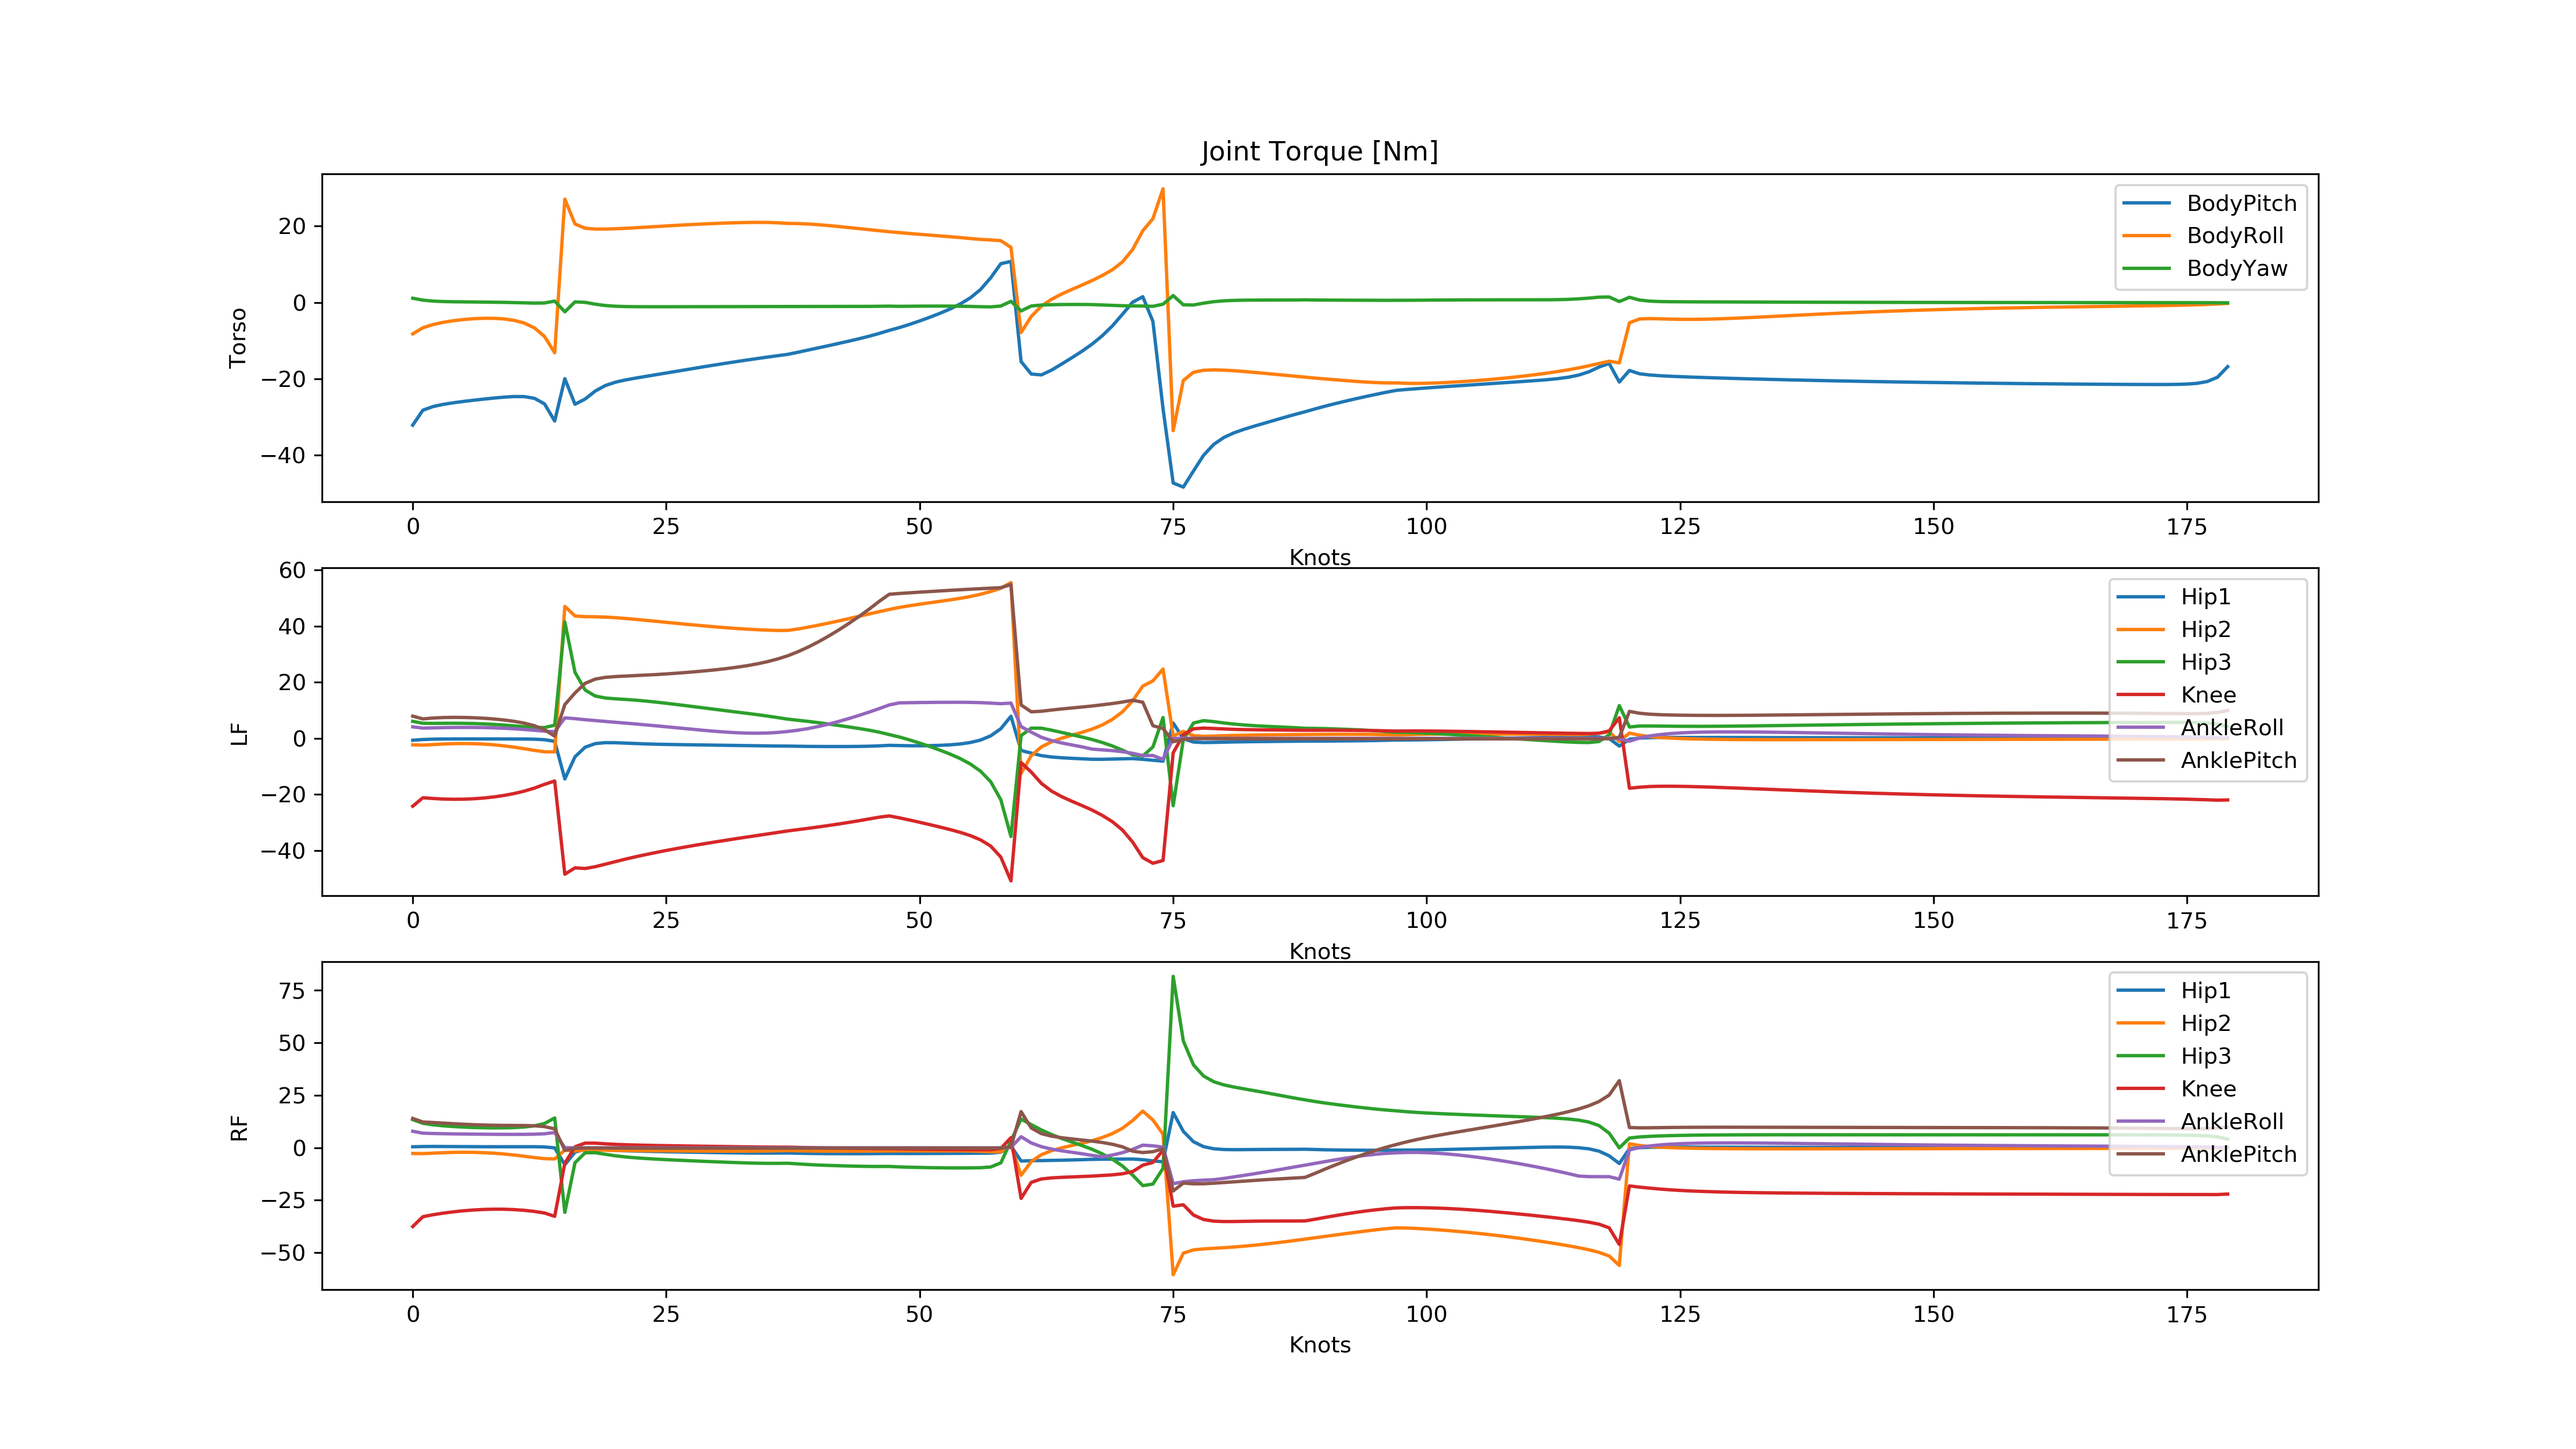
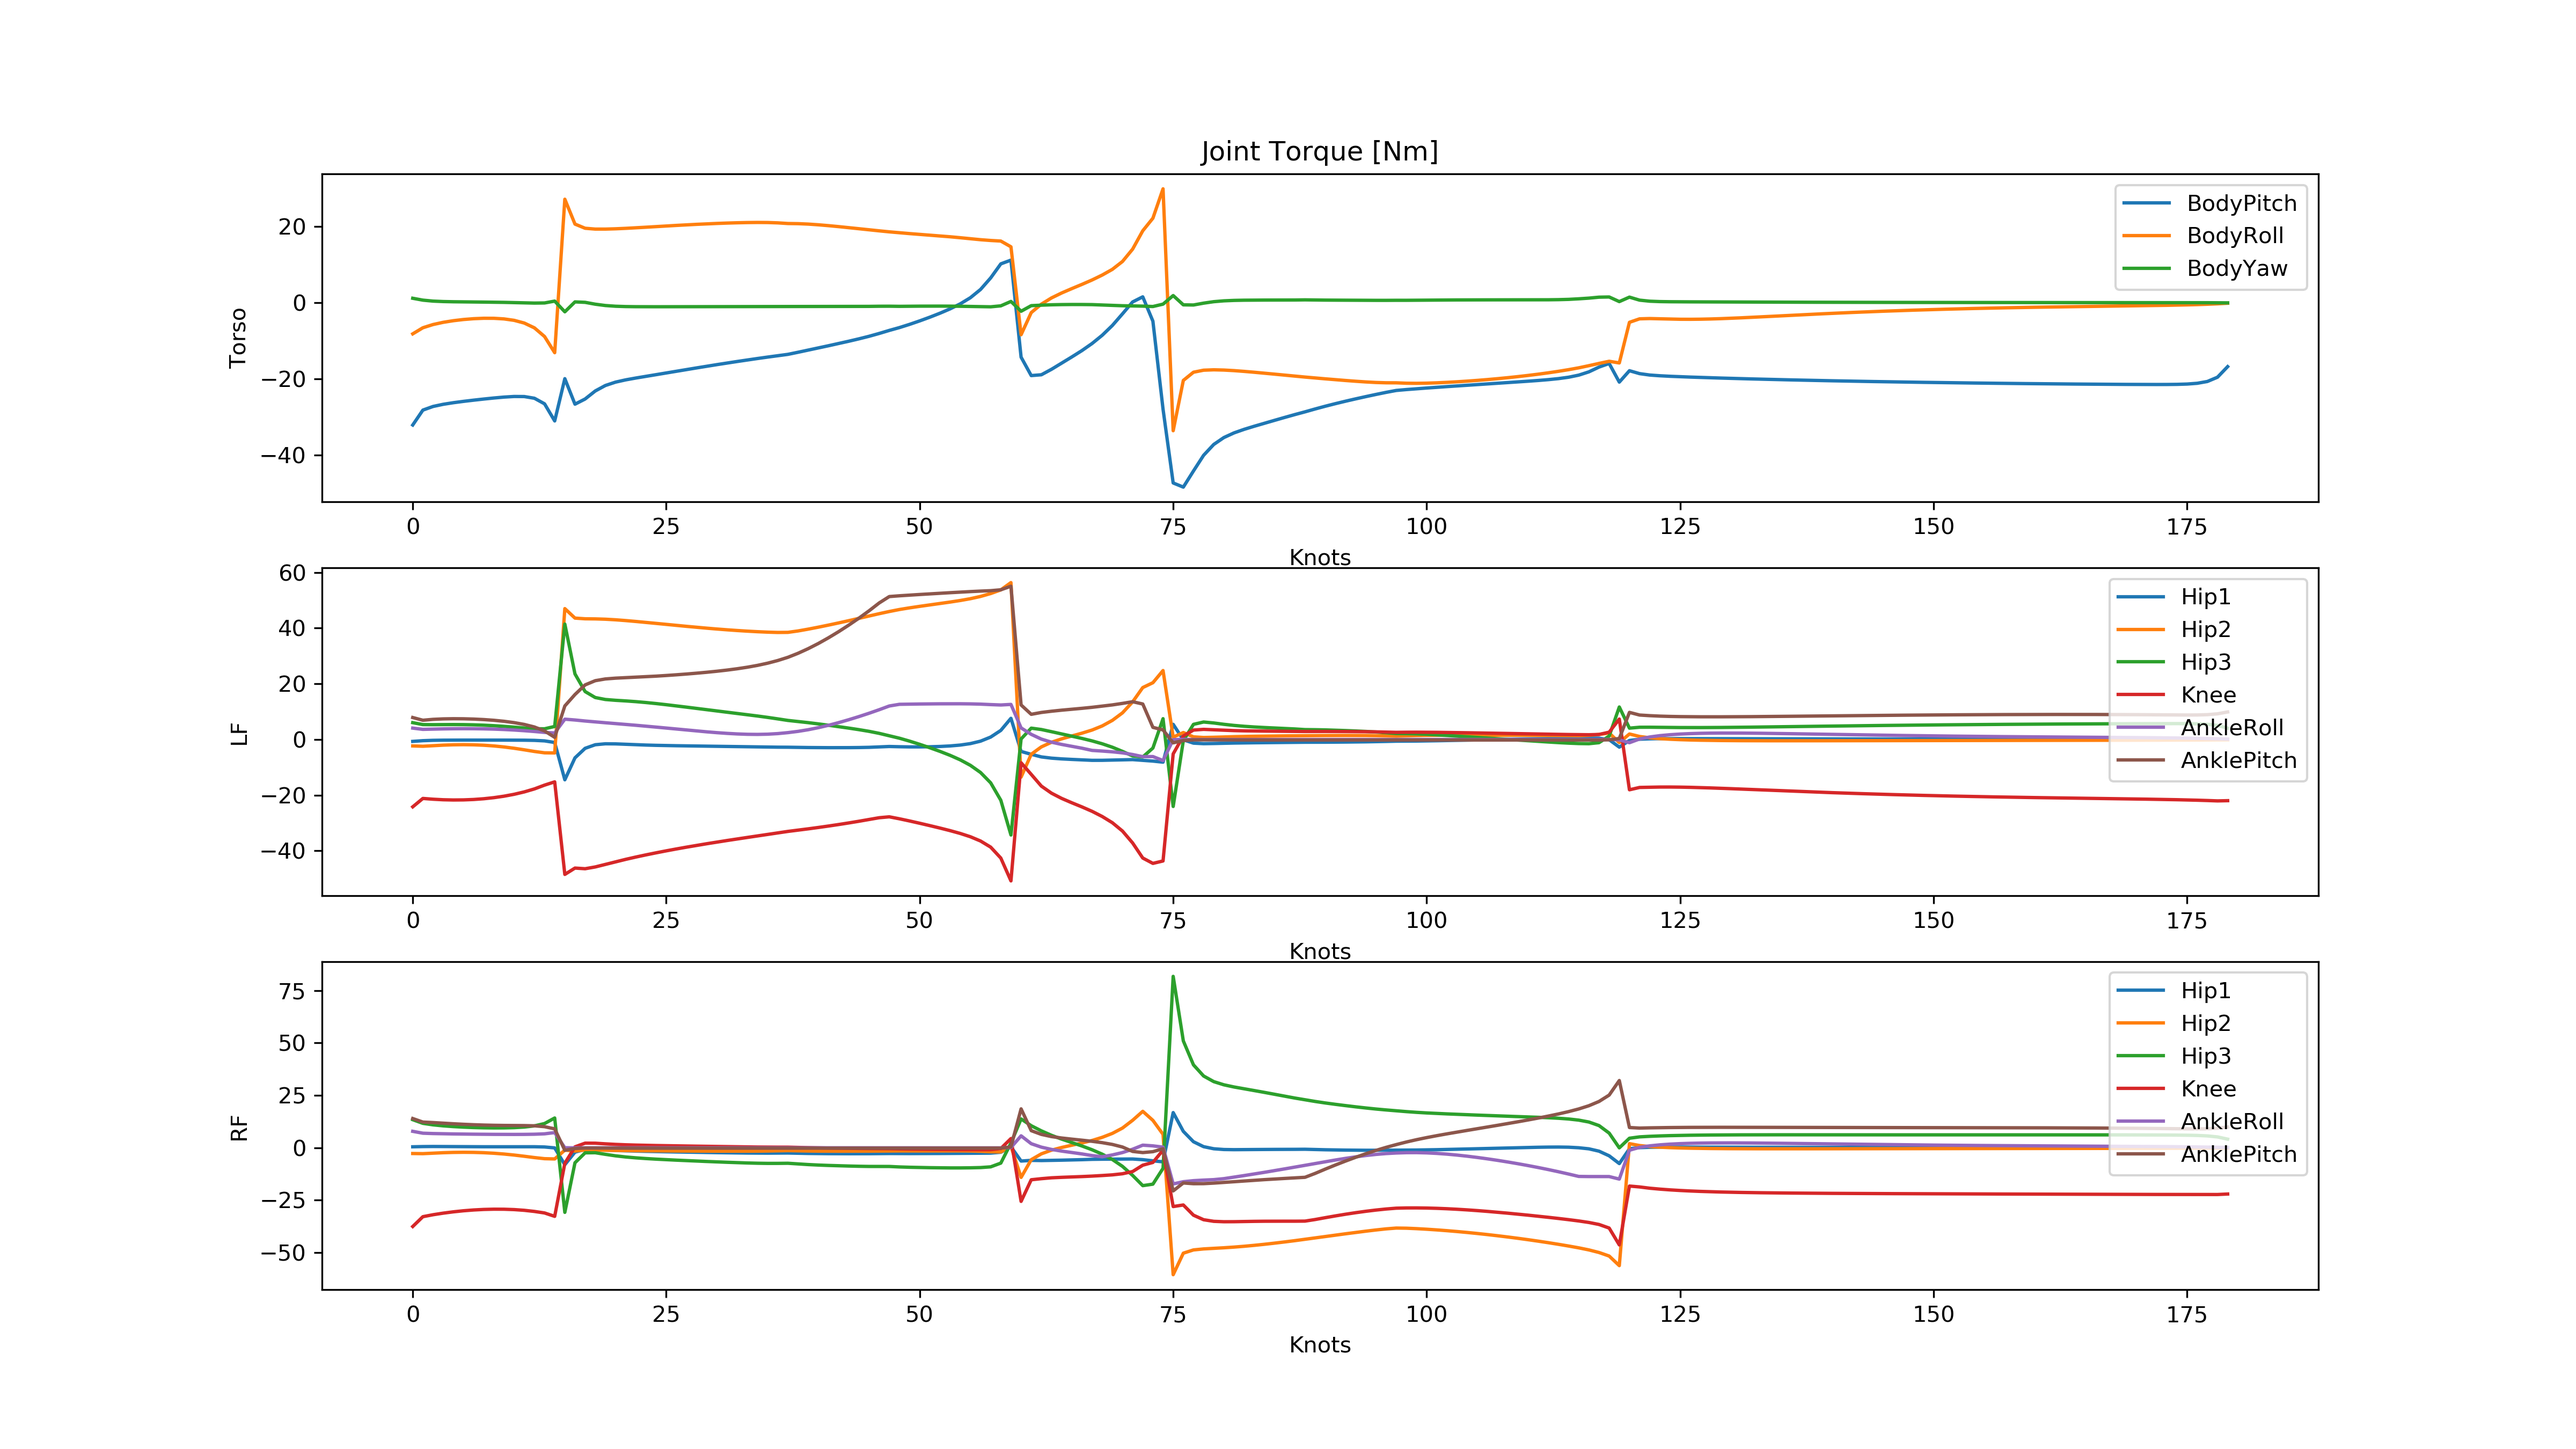
[walking] Fixed task space plot; added zmp vs cop plot

diff --git a/RH5/utils/utils.py b/RH5/utils/utils.py
@@ -397,8 +397,8 @@ def plotSolution(ddp, dirName, num_knots, bounds=True, figIndex=1, figTitle="", 
     currentAxis = plt.gca()
     for t in relTimePoints:
         # if smaller region: draw dotted rectangle
-        currentAxis.add_patch(Rectangle((lfPose[0][t] - footLength/4, lfPose[1][t] - footWidth/4), footLength/2, footWidth/2, edgecolor = 'silver', linestyle=':', fill=False))
-        currentAxis.add_patch(Rectangle((rfPose[0][t] - footLength/4, rfPose[1][t] - footWidth/4), footLength/2, footWidth/2, edgecolor = 'silver', linestyle=':', fill=False))
+        # currentAxis.add_patch(Rectangle((lfPose[0][t] - footLength/4, lfPose[1][t] - footWidth/4), footLength/2, footWidth/2, edgecolor = 'silver', linestyle=':', fill=False))
+        # currentAxis.add_patch(Rectangle((rfPose[0][t] - footLength/4, rfPose[1][t] - footWidth/4), footLength/2, footWidth/2, edgecolor = 'silver', linestyle=':', fill=False))
         # currentAxis.add_patch(Rectangle((lfPose[0][t] - footLength/8, lfPose[1][t] - footWidth/8), footLength/4, footWidth/4, edgecolor = 'silver', linestyle=':', fill=False))
         # currentAxis.add_patch(Rectangle((rfPose[0][t] - footLength/8, rfPose[1][t] - footWidth/8), footLength/4, footWidth/4, edgecolor = 'silver', linestyle=':', fill=False))
         if t != relTimePoints[-1]:
@@ -457,6 +457,7 @@ def plotSolution(ddp, dirName, num_knots, bounds=True, figIndex=1, figTitle="", 
     # plt.legend()
     # plt.savefig(dirName + 'TaskSpace.png', dpi = 300)
 
+    plt.figure(figIndex + 3, figsize=(16,9))
     plt.subplot(3, 3, 1)
     plt.plot(knots, Cx)
     plt.xlabel('Knots')
@@ -470,38 +471,68 @@ def plotSolution(ddp, dirName, num_knots, bounds=True, figIndex=1, figTitle="", 
     plt.xlabel('Knots')
     plt.ylabel('CoM Z [m]')
     plt.subplot(3, 3, 4)
-    [plt.plot(knots, lfVel[0], label='LF'), plt.plot(knots, rfVel[0], label='RF')]
-    plt.xlabel('Knots')
-    plt.ylabel('Foot dX [m/s]')
-    plt.legend()
-    plt.subplot(3, 3, 5)
-    [plt.plot(knots, lfVel[1], label='LF'), plt.plot(knots, rfVel[1], label='RF')]
-    plt.xlabel('Knots')
-    plt.ylabel('Foot dY [m/s]')
-    plt.legend()
-    plt.subplot(3, 3, 6)
-    [plt.plot(knots, lfVel[2], label='LF'), plt.plot(knots, rfVel[2], label='RF')]
-    plt.xlabel('Knots')
-    plt.ylabel('Foot dY [m/s]')
-    plt.legend()
-    plt.subplot(3, 3, 7)
     [plt.plot(knots, lfPose[0], label='LF'), plt.plot(knots, rfPose[0], label='RF')]
     plt.xlabel('Knots')
     plt.ylabel('Foot X [m]')
     plt.legend()
-    plt.subplot(3, 3, 8)
+    plt.subplot(3, 3, 5)
     [plt.plot(knots, lfPose[1], label='LF'), plt.plot(knots, rfPose[1], label='RF')]
     plt.xlabel('Knots')
     plt.ylabel('Foot Y [m]')
     plt.legend()
-    plt.subplot(3, 3, 9)
+    plt.subplot(3, 3, 6)
     [plt.plot(knots, lfPose[2], label='LF'), plt.plot(knots, rfPose[2], label='RF')]
     plt.xlabel('Knots')
     plt.ylabel('Foot Z [m]')
     plt.legend()
+    plt.subplot(3, 3, 7)
+    [plt.plot(knots, lfVel[0], label='LF'), plt.plot(knots, rfVel[0], label='RF')]
+    plt.xlabel('Knots')
+    plt.ylabel('Foot dX [m/s]')
+    plt.legend()
+    plt.subplot(3, 3, 8)
+    [plt.plot(knots, lfVel[1], label='LF'), plt.plot(knots, rfVel[1], label='RF')]
+    plt.xlabel('Knots')
+    plt.ylabel('Foot dY [m/s]')
+    plt.legend()
+    plt.subplot(3, 3, 9)
+    [plt.plot(knots, lfVel[2], label='LF'), plt.plot(knots, rfVel[2], label='RF')]
+    plt.xlabel('Knots')
+    plt.ylabel('Foot dZ [m/s]')
+    plt.legend()
     plt.savefig(dirName + 'TaskSpace.png', dpi = 300)
 
-    plt.figure(figIndex + 6, figsize=(16,9))
+    plt.figure(figIndex + 4, figsize=(16,9))
+    plt.subplot(2, 3, 1)
+    plt.plot(knots, Cx)
+    plt.xlabel('Knots')
+    plt.ylabel('CoM X [m]')
+    plt.subplot(2, 3, 2)
+    plt.plot(knots, Cy)
+    plt.xlabel('Knots')
+    plt.ylabel('CoM Y [m]')
+    plt.subplot(2, 3, 3)
+    plt.plot(knots, Cz)
+    plt.xlabel('Knots')
+    plt.ylabel('CoM Z [m]')
+    plt.subplot(2, 3, 4)
+    [plt.plot(knots, lfPose[0], label='LF'), plt.plot(knots, rfPose[0], label='RF')]
+    plt.xlabel('Knots')
+    plt.ylabel('Foot X [m]')
+    plt.legend()
+    plt.subplot(2, 3, 5)
+    [plt.plot(knots, lfPose[1], label='LF'), plt.plot(knots, rfPose[1], label='RF')]
+    plt.xlabel('Knots')
+    plt.ylabel('Foot Y [m]')
+    plt.legend()
+    plt.subplot(2, 3, 6)
+    [plt.plot(knots, lfPose[2], label='LF'), plt.plot(knots, rfPose[2], label='RF')]
+    plt.xlabel('Knots')
+    plt.ylabel('Foot Z [m]')
+    plt.legend()
+    plt.savefig(dirName + 'TaskSpaceReduced.png', dpi = 300)
+
+    plt.figure(figIndex + 5, figsize=(16,9))
     [plt.plot(knots, lfPose[2], label='LF'), plt.plot(knots, rfPose[2], label='RF')]
     plt.plot(knots, [0.]*len(knots), linestyle=':', markersize = '1', color='k')
     plt.xlabel('Knots')
@@ -509,7 +540,7 @@ def plotSolution(ddp, dirName, num_knots, bounds=True, figIndex=1, figTitle="", 
     plt.legend()
     plt.savefig(dirName + 'TaskSpaceFeetAnalysis.png', dpi = 300)
 
-    plt.figure(figIndex + 7, figsize=(16,9))
+    plt.figure(figIndex + 6, figsize=(16,9))
     [plt.plot(knots, lfPose[2], label='LF'), plt.plot(knots, rfPose[2], label='RF')]
     plt.plot(knots, [0.]*len(knots), linestyle=':', markersize = '1', color='k')
     plt.xlabel('Knots')
@@ -524,18 +555,35 @@ def plotSolution(ddp, dirName, num_knots, bounds=True, figIndex=1, figTitle="", 
     # print('minFeetError' + str(minFeetError))
 
     # Plotting ZMP vs CoM
-    plt.figure(figIndex + 8, figsize=(16,9))
+    plt.figure(figIndex + 7, figsize=(16,9))
     [plt.plot(knots, Cx, label='CoMx'), plt.plot(knots, Cy, label='CoMy')]
     [plt.plot(knots, ZMP[0], label='ZMPx'), plt.plot(knots, ZMP[1], label='ZMPy')]
     plt.xlabel('Knots')
     plt.ylabel('Position [m]')
     plt.legend()
-    plt.savefig(dirName + 'TaskSpaceCoMvsZMP.png', dpi = 300)
+    plt.savefig(dirName + 'TaskSpaceZMPvsCoM.png', dpi = 300)
+
+    # Plotting CoP vs ZMP
+    plt.figure(figIndex + 8, figsize=(16,9))
+    plt.subplot(1,2,1)
+    plt.plot(knots, CoPLF[0], label='CoPLFx')
+    plt.plot(knots, CoPRF[0], label='CoPRFx')
+    plt.plot(knots, ZMP[0], label='ZMPx')
+    plt.xlabel('Knots')
+    plt.ylabel('Position [m]')
+    plt.legend()
+    plt.subplot(1,2,2)
+    plt.plot(knots, CoPLF[1], label='CoPLFy')
+    plt.plot(knots, CoPRF[1], label='CoPRFy')
+    plt.plot(knots, ZMP[1], label='ZMPy')
+    plt.xlabel('Knots')
+    plt.legend()
+    plt.savefig(dirName + 'TaskSpaceZMPvsCoP.png', dpi = 300)
 
     # Plotting the Contact Wrenches
     contactForceNames = ['Fx','Fy','Fz'] 
     contactMomentNames = ['Tx','Ty','Tz']
-    plt.figure(figIndex + 4, figsize=(16,9))
+    plt.figure(figIndex + 9, figsize=(16,9))
     plt.subplot(2,2,1)
     plt.title('Contact Forces [N]')
     [plt.plot(F[k], label=contactForceNames[i]) for i, k in enumerate(range(0, 3))]
@@ -566,7 +614,7 @@ def plotSolution(ddp, dirName, num_knots, bounds=True, figIndex=1, figTitle="", 
     PosFBNames = ['X', 'Y', 'Z']
     VelFBNames = ['vx', 'vy', 'vz', 'wx', 'wy', 'wz']
     AccFBNames = ['vxd', 'vyd', 'vzd', 'wxd', 'wyd', 'wzd']
-    plt.figure(figIndex + 5, figsize=(16,9))
+    plt.figure(figIndex + 10, figsize=(16,9))
     ax1 = plt.subplot(3,1,1)
     [plt.plot(X[k], label=PosFBNames[i]) for i, k in enumerate(range(0, 3))]
     plt.setp(ax1.get_xticklabels(), visible=False)

diff --git a/RH5/utils/walkProblem.py b/RH5/utils/walkProblem.py
@@ -390,8 +390,8 @@ class SimpleBipedGaitProblem:
             costModel.addCost(self.rmodel.frames[i].name + "_frictionCone", frictionCone, 1e2)
             # center of pressure cost
             CoP = crocoddyl.CostModelContactCoPPosition(self.state, 
-                # crocoddyl.FrameCoPSupport(i, np.array([0.2, 0.08])), self.actuation.nu)
-                crocoddyl.FrameCoPSupport(i, np.array([0.1, 0.04])), self.actuation.nu)
+                crocoddyl.FrameCoPSupport(i, np.array([0.2, 0.08])), self.actuation.nu)
+                # crocoddyl.FrameCoPSupport(i, np.array([0.1, 0.04])), self.actuation.nu)
             costModel.addCost(self.rmodel.frames[i].name + "_CoP", CoP, 1e2) # TaskSpecific:Walking(Dynamic)
         if swingFootTask is not None:
             for i in swingFootTask:
@@ -468,8 +468,8 @@ class SimpleBipedGaitProblem:
             costModel.addCost(self.rmodel.frames[i].name + "_frictionCone", frictionCone, 1e2)
             # center of pressure
             CoP = crocoddyl.CostModelContactCoPPosition(self.state, 
-                # crocoddyl.FrameCoPSupport(i, np.array([0.2, 0.08])), self.actuation.nu)
-                crocoddyl.FrameCoPSupport(i, np.array([0.1, 0.04])), self.actuation.nu)
+                crocoddyl.FrameCoPSupport(i, np.array([0.2, 0.08])), self.actuation.nu)
+                # crocoddyl.FrameCoPSupport(i, np.array([0.1, 0.04])), self.actuation.nu)
             costModel.addCost(self.rmodel.frames[i].name + "_CoP", CoP, 1e2) # TaskSpecific:Walking(Dynamic)
         if swingFootTask is not None:
             for i in swingFootTask:
@@ -520,8 +520,8 @@ class SimpleBipedGaitProblem:
         for i in supportFootIds:
             # Impulse center of pressure cost
             CoP = crocoddyl.CostModelImpulseCoPPosition(self.state, 
-            # crocoddyl.FrameCoPSupport(i, np.array([0.2, 0.08])))
-            crocoddyl.FrameCoPSupport(i, np.array([0.1, 0.04])))
+            crocoddyl.FrameCoPSupport(i, np.array([0.2, 0.08])))
+            # crocoddyl.FrameCoPSupport(i, np.array([0.1, 0.04])))
             costModel.addCost(self.rmodel.frames[i].name + "_CoP", CoP, 1e2) # TaskSpecific:Walking(Dynamic)
             # Impulse friction cone cost
             cone = crocoddyl.FrictionCone(self.nsurf, self.mu, 4, False)

diff --git a/RH5/walk.py b/RH5/walk.py
@@ -68,7 +68,7 @@ rmodel = rh5_robot.model
 setLimits(rmodel)
 
 gridSearchResults = []
-baumgarteDGains = [30]
+baumgarteDGains = [35]
 baumgartePGains = [0]
 # baumgarteDGains = np.arange(20, 110, 10)
 # baumgartePGains = np.arange(0, 1.2, 0.1)
@@ -106,7 +106,8 @@ for DGain in baumgarteDGains:
         # while True: # Get desired view params
         #     print(rh5_robot.viewer.gui.getCameraTransform(rh5_robot.viz.windowID))
 
-        simName = 'results/HumanoidFixedArms/DynamicWalking_LargeSteps_CoP50_ArmsFreed/'
+        # simName = 'results/HumanoidFixedArms/DynamicWalking_LargeSteps_CoP50_ArmsFreed/'
+        simName = 'results/DynamicWalking_LargeSteps_CoP100_ArmsFreed/'
[1 lines of base64/hex data omitted]
         if not os.path.exists(simName):
             os.makedirs(simName)
